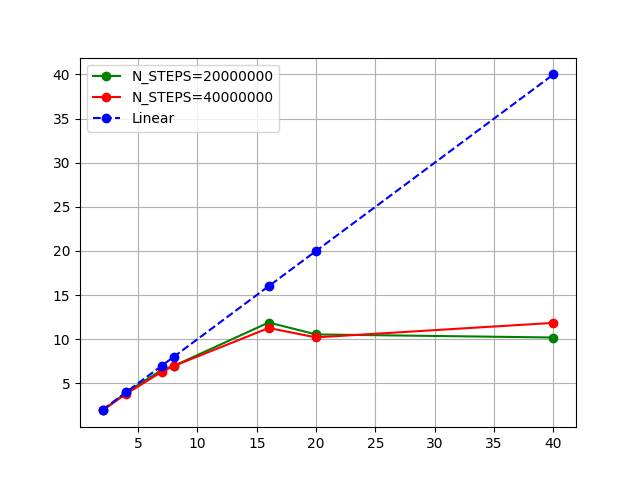
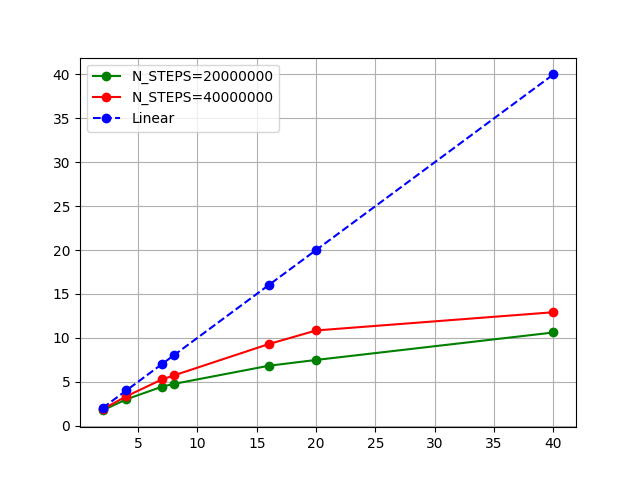
updated graphs

diff --git a/lab_2/task_3/make_plot.py b/lab_2/task_3/make_plot.py
@@ -1,28 +1,32 @@
 import csv
 import matplotlib.pyplot as plt
 
-small_size_times = []
-big_size_times = []
-threads_arr = [1, 2, 4, 7, 8, 16, 20, 40]
+def main(type):
 
-with open('threads_times_2.csv', 'r') as csvfile:
-    csv_reader = csv.reader(csvfile)
-    for row in csv_reader:
-        if row[0] == '20000':
-            for i in range(3, len(row), 2):
-                small_size_times.append(float(row[i]))
+    small_size_times = []
+    big_size_times = []
+    threads_arr = [1, 2, 4, 7, 8, 16, 20, 40]
 
-        if row[0] == '40000':
-            for i in range(3, len(row), 2):
-                big_size_times.append(float(row[i]))
-        
+    with open(f'threads_times_{type}.csv', 'r') as csvfile:
+        csv_reader = csv.reader(csvfile)
+        for row in csv_reader:
+            if row[0] == '20000':
+                for i in range(3, len(row), 2):
+                    small_size_times.append(float(row[i]))
+
+            if row[0] == '40000':
+                for i in range(3, len(row), 2):
+                    big_size_times.append(float(row[i]))
+            
 
 
-fig, ax = plt.subplots(1, 1)
+    fig, ax = plt.subplots(1, 1)
 
-ax.plot(threads_arr[1:], small_size_times, color='green', label='M=20000', marker='o')
-ax.plot(threads_arr[1:], big_size_times, color='red', label='M=40000', marker='o')
-ax.plot(threads_arr[1:], threads_arr[1:], color='blue', linestyle='dashed', label='Linear', marker='o')  
-ax.grid()
-ax.legend()
-fig.savefig("speedups1.png")
+    ax.plot(threads_arr[1:], small_size_times, color='green', label='M=20000', marker='o')
+    ax.plot(threads_arr[1:], big_size_times, color='red', label='M=40000', marker='o')
+    ax.plot(threads_arr[1:], threads_arr[1:], color='blue', linestyle='dashed', label='Linear', marker='o')  
+    ax.grid()
+    ax.legend()
+    fig.savefig(f"speedups{type}.png")
+
+main(2)
